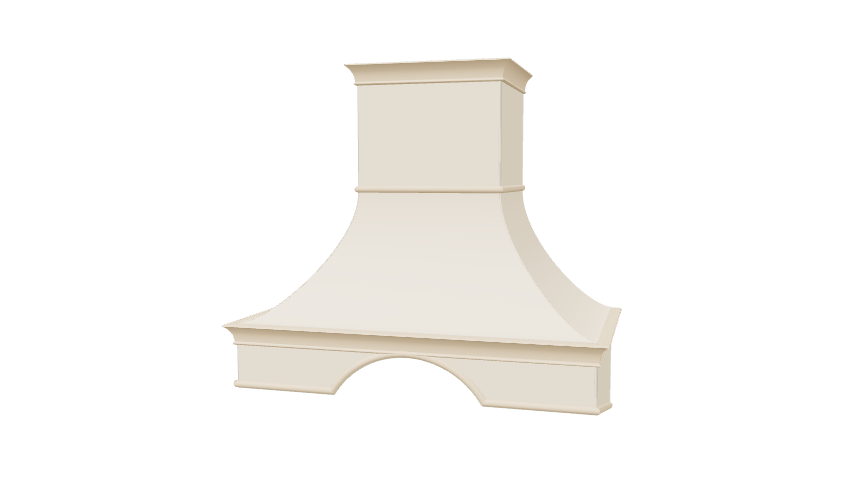
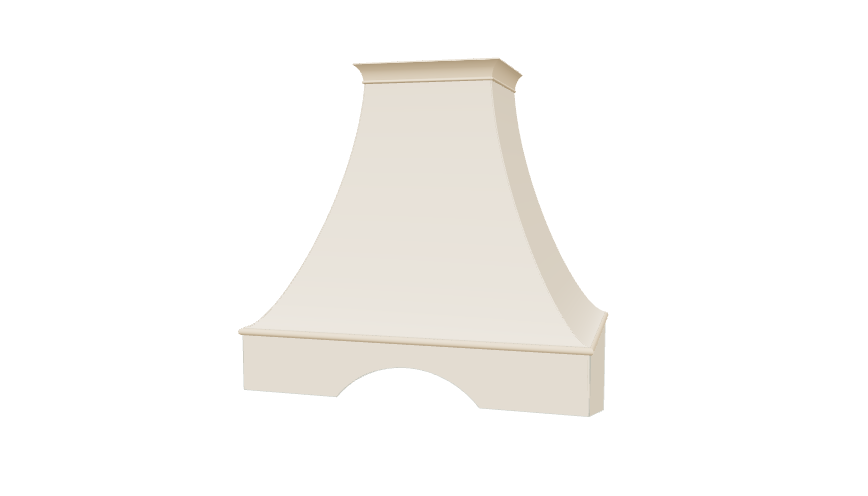
Refine tall 3D thumbnail to match its photo

diff --git a/app.js b/app.js
@@ -1,5 +1,5 @@
 /* © 2026 栗子的家 · 定制装饰罩 | All rights reserved. */
-const w={basePrice:480,trimPrices:{none:0,single:35,corner:45},wechatId:"Jonathan_Ge",qrImage:"assets/pay-qr.jpg",serviceQrImage:"assets/service-qr.jpg",orderEndpoint:location.hostname.endsWith("github.io")?"https://yyj-h5-d5gaovp196680d93f-1258663924.ap-shanghai.app.tcloudbase.com/api/orders":"/api/orders",orderLookupEndpoint:""},re="./preview.js?v=2e9b7c4bbb",N=[{id:"cloud",name:"\u4E91\u6735\u5F27",tone:"\u6696\u7C73",desc:"\u949F\u5F62\u5F27\u7EBF \xB7 \u5BBD\u5E95\u6536\u8FB9",curve:"concave",start:"middle",dims:{hoodWidth:1e3,hoodDepth:500,rearHeight:335,frontHeight:200,chimneyWidth:430,chimneyDepth:330,chimneyHeight:790},trims:{top:"corner",start:"single",hoodTop:"corner",hoodBottom:"single"},notch:{shape:"rounded",width:300,height:60,offset:0}},{id:"tall",name:"\u9AD8\u7A84\u5F27",tone:"\u6696\u7C73",desc:"\u9AD8\u7A84\u957F\u5F27 \xB7 \u62F1\u5F62\u5F00\u53E3",curve:"concave",start:"middle",dims:{hoodWidth:800,hoodDepth:470,rearHeight:264,frontHeight:144,chimneyWidth:325,chimneyDepth:300,chimneyHeight:608},trims:{top:"corner",start:"single",hoodTop:"corner",hoodBottom:"single"},notch:{shape:"arch",width:340,height:95,offset:0}},{id:"line",name:"\u76F4\u8FB9\u5854",tone:"\u6696\u7C73",desc:"\u76F4\u8FB9\u659C\u6536 \xB7 \u65B9\u51A0\u538B\u9876",curve:"flat",start:"middle",dims:{hoodWidth:940,hoodDepth:500,rearHeight:360,frontHeight:250,chimneyWidth:460,chimneyDepth:330,chimneyHeight:634},trims:{top:"corner",start:"single",hoodTop:"corner",hoodBottom:"single"},notch:{shape:"trapezoid",width:420,height:60,offset:0}},{id:"arch",name:"\u5706\u9876\u62F1",tone:"\u6696\u7C73",desc:"\u957F\u5F27\u5916\u6269 \xB7 \u5927\u5706\u62F1\u53E3",curve:"concave",start:"middle",dims:{hoodWidth:840,hoodDepth:480,rearHeight:288,frontHeight:168,chimneyWidth:345,chimneyDepth:310,chimneyHeight:512},trims:{top:"corner",start:"single",hoodTop:"corner",hoodBottom:"single"},notch:{shape:"arch",width:520,height:95,offset:0}},{id:"crown",name:"\u5BBD\u65B9\u51A0",tone:"\u6696\u7C73",desc:"\u5BBD\u80A9\u76F4\u8FB9 \xB7 \u9636\u68AF\u65B9\u51A0",curve:"flat",start:"middle",dims:{hoodWidth:1e3,hoodDepth:510,rearHeight:290,frontHeight:160,chimneyWidth:520,chimneyDepth:330,chimneyHeight:700},trims:{top:"corner",start:"single",hoodTop:"corner",hoodBottom:"single"},notch:{shape:"trapezoid",width:430,height:65,offset:0}},{id:"float",name:"\u6781\u7B80\u65B9\u76D2",tone:"\u6696\u7C73",desc:"\u65B9\u76D2\u76F4\u8FB9 \xB7 \u65E0\u5F27\u4FA7\u9762",curve:"none",start:"middle",dims:{hoodWidth:1e3,hoodDepth:500,rearHeight:280,frontHeight:200,chimneyWidth:780,chimneyDepth:380,chimneyHeight:690},trims:{top:"corner",start:"none",hoodTop:"single",hoodBottom:"single"},notch:{enabled:!1,shape:"rect",width:260,height:50,offset:90}}],$=[{styleId:"cloud",name:"\u4E91\u6735\u5F27",image:"assets/styles/cloud.jpg",model:"assets/models/cloud.png",fit:"cover"},{styleId:"line",name:"\u76F4\u8FB9\u5854",image:"assets/styles/line.jpg",model:"assets/models/line.png",fit:"cover"},{styleId:"tall",name:"\u9AD8\u7A84\u5F27",image:"assets/styles/tall.jpg",model:"assets/models/tall.png",fit:"cover"},{styleId:"arch",name:"\u5706\u9876\u62F1",image:"assets/styles/arch.jpg",model:"assets/models/arch.png",fit:"cover"},{styleId:"crown",name:"\u5BBD\u65B9\u51A0",image:"assets/styles/crown.jpg",model:"assets/models/crown.png",fit:"cover"},{styleId:"float",name:"\u6781\u7B80\u65B9\u76D2",image:"assets/styles/float.jpg",model:"assets/models/float.png",fit:"cover"}];let zt="";async function An(){try{const t=new AbortController,e=window.setTimeout(()=>t.abort(),1500),n=await fetch(`content.json?v=${Date.now()}`,{cache:"no-store",signal:t.signal});if(clearTimeout(e),!n.ok)return;const i=await n.json();if(i&&i.wechatId&&(w.wechatId=String(i.wechatId)),i&&i.qrImage&&(w.qrImage=String(i.qrImage)),i&&i.serviceQrImage&&(w.serviceQrImage=String(i.serviceQrImage)),i&&Number.isFinite(Number(i.basePrice))&&(w.basePrice=Number(i.basePrice)),i&&typeof i.orderLookupEndpoint=="string"&&(w.orderLookupEndpoint=i.orderLookupEndpoint),i&&i.trimPrices&&typeof i.trimPrices=="object"&&Object.keys(w.trimPrices).forEach(r=>{Number.isFinite(Number(i.trimPrices[r]))&&(w.trimPrices[r]=Number(i.trimPrices[r]))}),i&&Array.isArray(i.cases)&&i.cases.length){const r=i.cases.filter(o=>o&&o.styleId&&o.image).map(o=>({styleId:String(o.styleId),name:String(o.name||""),image:String(o.image),model:o.model?String(o.model):"",fit:o.fit==="cover"?"cover":"contain"}));r.length&&($.length=0,$.push(...r))}i&&i.home3dImage&&(zt=String(i.home3dImage))}catch{}}const _=[{id:"none",name:"\u65E0\u88C5\u9970\u6761",desc:"\u5E72\u51C0\u5229\u843D",price:0},{id:"single",name:"\u534A\u5706\u7EBF\u6761",desc:"\u534A\u5706\u7EC6\u8FB9",price:35},{id:"corner",name:"\u9876\u89D2\u6761",desc:"\u76F4\u89D2\u6536\u8FB9",price:45}],ut=[{key:"top",name:"\u70DF\u9053\u9876\u90E8",hint:"\u70DF\u9053\u6700\u4E0A\u65B9\u4E00\u5708"},{key:"start",name:"\u66F2\u9762\u8D77\u70B9",hint:"\u4E0A\u7AD6\u4E0E\u66F2\u9762\u7684\u63A5\u7F1D"},{key:"hoodTop",name:"\u4E0B\u6A2A\u9876\u8FB9",hint:"\u4E0B\u6A2A\u4E0A\u6CBF"},{key:"hoodBottom",name:"\u4E0B\u6A2A\u5E95\u8FB9",hint:"\u4E0B\u6A2A\u4E0B\u6CBF"}],H={chimneyWidth:{label:"\u70DF\u9053\u5BBD",hint:"\u5DE6\u53F3\u5404\u7559 5mm",min:220,max:600,step:10},chimneyDepth:{label:"\u70DF\u9053\u6DF1",hint:"\u4ECE\u5899\u5230\u524D\u5916\u6CBF",min:180,max:500,step:10},chimneyHeight:{label:"\u4E0A\u7AD6\u9AD8",hint:"\u4E0B\u6A2A\u4EE5\u4E0A",min:300,max:1e3,step:10},hoodWidth:{label:"\u70DF\u673A\u5BBD",hint:"\u91CF\u6700\u5916\u6CBF",min:600,max:1100,step:10},hoodDepth:{label:"\u70DF\u673A\u6DF1",hint:"\u4ECE\u5899\u5230\u6700\u5916\u6CBF",min:350,max:650,step:10},rearHeight:{label:"\u9760\u5899\u4FA7\u9AD8",hint:"\u8D34\u5899\u90A3\u4E00\u4FA7",min:220,max:520,step:10},frontHeight:{label:"\u524D\u4FA7\u9AD8",hint:"\u671D\u5916\u8FD9\u4E00\u4FA7",min:120,max:520,step:10},notchWidth:{label:"\u5F00\u53E3\u5BBD",hint:"\u8C41\u53E3\u5DE6\u53F3\u5BBD\u5EA6",min:120,max:620,step:10},notchHeight:{label:"\u5F00\u53E3\u9AD8",hint:"\u4ECE\u5E95\u8FB9\u5F80\u4E0A",min:30,max:220,step:10}},je=[{id:"rect",label:"\u77E9\u5F62"},{id:"rounded",label:"\u5706\u89D2\u77E9\u5F62"},{id:"arch",label:"\u5706\u5F27"},{id:"trapezoid",label:"\u68AF\u5F62"}],ze={chimneyWidth:"front",chimneyDepth:"side",chimneyHeight:"chimneyHeight",hoodWidth:"hoodWidth",hoodDepth:"hoodDepth",rearHeight:"rearHeight",frontHeight:"frontHeight",notchWidth:"notch",notchHeight:"notch"},O={styleId:"cloud",hoodWidth:800,hoodDepth:450,rearHeight:380,frontHeight:240,chimneyWidth:320,chimneyDepth:280,chimneyHeight:500,shimHeight:0,surfaceType:"concave",surfaceStart:"middle",notchEnabled:!0,notchShape:"arch",notchWidth:420,notchHeight:80,notchOffset:0,trimStyles:{top:"corner",start:"single",hoodTop:"single",hoodBottom:"single"}},Re=[{id:"concave",label:"\u5411\u5185\u5F2F\u66F2"},{id:"convex",label:"\u5411\u5916\u5F2F\u66F2"},{id:"flat",label:"\u4E0D\u5F2F\u66F2"},{id:"none",label:"\u65E0\u4FA7\u9762"}];function oe(t){return t==="none"?[{id:"middle",label:"\u4E2D\u95F4"}]:t==="convex"?[{id:"lower",label:"\u4E2D\u95F4\u504F\u4E0B"},{id:"lowest",label:"\u4E2D\u95F4\u66F4\u504F\u4E0B"}]:t==="flat"?[{id:"middle",label:"\u4E2D\u95F4"},{id:"top",label:"\u9876\u90E8"}]:[{id:"middle",label:"\u4E2D\u95F4"},{id:"top",label:"\u4E0A\u9762"}]}function Nn(t=a.surfaceType,e=a.surfaceStart){return e==="lowest"?"\u4E2D\u95F4\u66F4\u504F\u4E0B":e==="lower"?"\u4E2D\u95F4\u504F\u4E0B":e==="top"?t==="flat"?"\u9876\u90E8":"\u4E0A\u9762":"\u4E2D\u95F4"}const F={customer:"yyj_customer",orders:"yyj_orders",pending:"yyj_pending_orders",lastOrder:"yyj_last_order",pendingOrder:"yyj_pending_order"},s=(t,e=document)=>e.querySelector(t),T=(t,e=document)=>Array.from(e.querySelectorAll(t)),S=(t,e,n)=>Math.min(n,Math.max(e,Number(t)||0)),L=t=>`\xA5${Number(t).toLocaleString("zh-CN")}`,x=t=>String(t??"").replace(/[&<>"']/g,e=>({"&":"&amp;","<":"&lt;",">":"&gt;",'"':"&quot;","'":"&#39;"})[e]);function se(t,e){try{const n=localStorage.getItem(t);return n?JSON.parse(n):e}catch{return e}}function mt(t,e){try{localStorage.setItem(t,JSON.stringify(e))}catch{}}function lr(t){try{localStorage.removeItem(t)}catch{}}let Fn=0;function Lt(t,e){const n=parseInt(t.slice(1),16),i=n>>16&255,r=n>>8&255,o=n&255,d=e<0?0:255,c=Math.abs(e)/100,h=m=>Math.round((d-m)*c+m).toString(16).padStart(2,"0");return`#${h(i)}${h(r)}${h(o)}`}const jn={concave:{l1:[132,140],l2:[86,150],r1:[234,150],r2:[188,140]},convex:{l1:[116,124],l2:[52,136],r1:[268,136],r2:[204,124]}};function Be(t,{transparent:e=!1}={}){const n=`hood${++Fn}`,i=t.color,r=t.bg,o=Lt(i,14),d=Lt(i,-10),c=Lt(i,-25),h="#d8be9e",m=jn[t.curve];let u,g;if(t.curve==="flat")u="M132 112 L52 150 H268 L188 112 Z",g="M188 112 L268 150 L288 142 L204 103 Z";else{const{l1:f,l2:b,r1:v,r2:k}=m;u=`M132 112 C${f[0]} ${f[1]} ${b[0]} ${b[1]} 52 150 H268 C${v[0]} ${v[1]} ${k[0]} ${k[1]} 188 112 Z`,g=`M188 112 C${k[0]} ${k[1]} ${v[0]} ${v[1]} 268 150 L288 142 C${v[0]-18} ${v[1]-8} ${k[0]+8} ${k[1]-8} 204 103 Z`}const y=["M132 38 H188 L204 31","M132 112 H188","M52 150 H268 L288 142","M52 196 H268 L288 188"];let p="";if(t.trim==="single"||t.trim==="corner"){const f=t.trim==="corner"?6:4;p=y.map(b=>`<path d="${b}" fill="none" stroke="${h}" stroke-width="${f}" stroke-linecap="round" stroke-linejoin="round"/>`).join(""),t.trim==="corner"&&(p+=y.map(b=>`<path d="${b}" fill="none" stroke="#c9b08d" stroke-width="1.3" opacity=".3"/>`).join(""))}else t.trim==="double"&&(p=y.map(f=>`<path d="${f}" fill="none" stroke="${h}" stroke-width="2.4" stroke-linecap="round" stroke-linejoin="round"/>`).join(""),p+=y.map(f=>`<path d="${f}" transform="translate(0 5)" fill="none" stroke="${h}" stroke-width="2.4" stroke-linecap="round" stroke-linejoin="round"/>`).join(""));return`<svg viewBox="0 0 320 240" role="img" aria-label="${x(t.name)}${x(t.tone)}\u70DF\u673A\u7F69\u793A\u610F">
+const w={basePrice:480,trimPrices:{none:0,single:35,corner:45},wechatId:"Jonathan_Ge",qrImage:"assets/pay-qr.jpg",serviceQrImage:"assets/service-qr.jpg",orderEndpoint:location.hostname.endsWith("github.io")?"https://yyj-h5-d5gaovp196680d93f-1258663924.ap-shanghai.app.tcloudbase.com/api/orders":"/api/orders",orderLookupEndpoint:""},re="./preview.js?v=2e9b7c4bbb",N=[{id:"cloud",name:"\u4E91\u6735\u5F27",tone:"\u6696\u7C73",desc:"\u949F\u5F62\u5F27\u7EBF \xB7 \u5BBD\u5E95\u6536\u8FB9",curve:"concave",start:"middle",dims:{hoodWidth:1e3,hoodDepth:500,rearHeight:335,frontHeight:200,chimneyWidth:430,chimneyDepth:330,chimneyHeight:790},trims:{top:"corner",start:"single",hoodTop:"corner",hoodBottom:"single"},notch:{shape:"rounded",width:300,height:60,offset:0}},{id:"tall",name:"\u9AD8\u7A84\u5F27",tone:"\u6696\u7C73",desc:"\u9AD8\u7A84\u957F\u5F27 \xB7 \u62F1\u5F62\u5F00\u53E3",curve:"concave",start:"top",dims:{hoodWidth:800,hoodDepth:470,rearHeight:264,frontHeight:144,chimneyWidth:290,chimneyDepth:300,chimneyHeight:640},trims:{top:"corner",start:"none",hoodTop:"single",hoodBottom:"none"},notch:{shape:"arch",width:340,height:80,offset:0}},{id:"line",name:"\u76F4\u8FB9\u5854",tone:"\u6696\u7C73",desc:"\u76F4\u8FB9\u659C\u6536 \xB7 \u65B9\u51A0\u538B\u9876",curve:"flat",start:"middle",dims:{hoodWidth:940,hoodDepth:500,rearHeight:360,frontHeight:250,chimneyWidth:460,chimneyDepth:330,chimneyHeight:634},trims:{top:"corner",start:"single",hoodTop:"corner",hoodBottom:"single"},notch:{shape:"trapezoid",width:420,height:60,offset:0}},{id:"arch",name:"\u5706\u9876\u62F1",tone:"\u6696\u7C73",desc:"\u957F\u5F27\u5916\u6269 \xB7 \u5927\u5706\u62F1\u53E3",curve:"concave",start:"middle",dims:{hoodWidth:840,hoodDepth:480,rearHeight:288,frontHeight:168,chimneyWidth:345,chimneyDepth:310,chimneyHeight:512},trims:{top:"corner",start:"single",hoodTop:"corner",hoodBottom:"single"},notch:{shape:"arch",width:520,height:95,offset:0}},{id:"crown",name:"\u5BBD\u65B9\u51A0",tone:"\u6696\u7C73",desc:"\u5BBD\u80A9\u76F4\u8FB9 \xB7 \u9636\u68AF\u65B9\u51A0",curve:"flat",start:"middle",dims:{hoodWidth:1e3,hoodDepth:510,rearHeight:290,frontHeight:160,chimneyWidth:520,chimneyDepth:330,chimneyHeight:700},trims:{top:"corner",start:"single",hoodTop:"corner",hoodBottom:"single"},notch:{shape:"trapezoid",width:430,height:65,offset:0}},{id:"float",name:"\u6781\u7B80\u65B9\u76D2",tone:"\u6696\u7C73",desc:"\u65B9\u76D2\u76F4\u8FB9 \xB7 \u65E0\u5F27\u4FA7\u9762",curve:"none",start:"middle",dims:{hoodWidth:1e3,hoodDepth:500,rearHeight:280,frontHeight:200,chimneyWidth:780,chimneyDepth:380,chimneyHeight:690},trims:{top:"corner",start:"none",hoodTop:"single",hoodBottom:"single"},notch:{enabled:!1,shape:"rect",width:260,height:50,offset:90}}],$=[{styleId:"cloud",name:"\u4E91\u6735\u5F27",image:"assets/styles/cloud.jpg",model:"assets/models/cloud.png",fit:"cover"},{styleId:"line",name:"\u76F4\u8FB9\u5854",image:"assets/styles/line.jpg",model:"assets/models/line.png",fit:"cover"},{styleId:"tall",name:"\u9AD8\u7A84\u5F27",image:"assets/styles/tall.jpg",model:"assets/models/tall.png",fit:"cover"},{styleId:"arch",name:"\u5706\u9876\u62F1",image:"assets/styles/arch.jpg",model:"assets/models/arch.png",fit:"cover"},{styleId:"crown",name:"\u5BBD\u65B9\u51A0",image:"assets/styles/crown.jpg",model:"assets/models/crown.png",fit:"cover"},{styleId:"float",name:"\u6781\u7B80\u65B9\u76D2",image:"assets/styles/float.jpg",model:"assets/models/float.png",fit:"cover"}];let zt="";async function An(){try{const t=new AbortController,e=window.setTimeout(()=>t.abort(),1500),n=await fetch(`content.json?v=${Date.now()}`,{cache:"no-store",signal:t.signal});if(clearTimeout(e),!n.ok)return;const i=await n.json();if(i&&i.wechatId&&(w.wechatId=String(i.wechatId)),i&&i.qrImage&&(w.qrImage=String(i.qrImage)),i&&i.serviceQrImage&&(w.serviceQrImage=String(i.serviceQrImage)),i&&Number.isFinite(Number(i.basePrice))&&(w.basePrice=Number(i.basePrice)),i&&typeof i.orderLookupEndpoint=="string"&&(w.orderLookupEndpoint=i.orderLookupEndpoint),i&&i.trimPrices&&typeof i.trimPrices=="object"&&Object.keys(w.trimPrices).forEach(r=>{Number.isFinite(Number(i.trimPrices[r]))&&(w.trimPrices[r]=Number(i.trimPrices[r]))}),i&&Array.isArray(i.cases)&&i.cases.length){const r=i.cases.filter(o=>o&&o.styleId&&o.image).map(o=>({styleId:String(o.styleId),name:String(o.name||""),image:String(o.image),model:o.model?String(o.model):"",fit:o.fit==="cover"?"cover":"contain"}));r.length&&($.length=0,$.push(...r))}i&&i.home3dImage&&(zt=String(i.home3dImage))}catch{}}const _=[{id:"none",name:"\u65E0\u88C5\u9970\u6761",desc:"\u5E72\u51C0\u5229\u843D",price:0},{id:"single",name:"\u534A\u5706\u7EBF\u6761",desc:"\u534A\u5706\u7EC6\u8FB9",price:35},{id:"corner",name:"\u9876\u89D2\u6761",desc:"\u76F4\u89D2\u6536\u8FB9",price:45}],ut=[{key:"top",name:"\u70DF\u9053\u9876\u90E8",hint:"\u70DF\u9053\u6700\u4E0A\u65B9\u4E00\u5708"},{key:"start",name:"\u66F2\u9762\u8D77\u70B9",hint:"\u4E0A\u7AD6\u4E0E\u66F2\u9762\u7684\u63A5\u7F1D"},{key:"hoodTop",name:"\u4E0B\u6A2A\u9876\u8FB9",hint:"\u4E0B\u6A2A\u4E0A\u6CBF"},{key:"hoodBottom",name:"\u4E0B\u6A2A\u5E95\u8FB9",hint:"\u4E0B\u6A2A\u4E0B\u6CBF"}],H={chimneyWidth:{label:"\u70DF\u9053\u5BBD",hint:"\u5DE6\u53F3\u5404\u7559 5mm",min:220,max:600,step:10},chimneyDepth:{label:"\u70DF\u9053\u6DF1",hint:"\u4ECE\u5899\u5230\u524D\u5916\u6CBF",min:180,max:500,step:10},chimneyHeight:{label:"\u4E0A\u7AD6\u9AD8",hint:"\u4E0B\u6A2A\u4EE5\u4E0A",min:300,max:1e3,step:10},hoodWidth:{label:"\u70DF\u673A\u5BBD",hint:"\u91CF\u6700\u5916\u6CBF",min:600,max:1100,step:10},hoodDepth:{label:"\u70DF\u673A\u6DF1",hint:"\u4ECE\u5899\u5230\u6700\u5916\u6CBF",min:350,max:650,step:10},rearHeight:{label:"\u9760\u5899\u4FA7\u9AD8",hint:"\u8D34\u5899\u90A3\u4E00\u4FA7",min:220,max:520,step:10},frontHeight:{label:"\u524D\u4FA7\u9AD8",hint:"\u671D\u5916\u8FD9\u4E00\u4FA7",min:120,max:520,step:10},notchWidth:{label:"\u5F00\u53E3\u5BBD",hint:"\u8C41\u53E3\u5DE6\u53F3\u5BBD\u5EA6",min:120,max:620,step:10},notchHeight:{label:"\u5F00\u53E3\u9AD8",hint:"\u4ECE\u5E95\u8FB9\u5F80\u4E0A",min:30,max:220,step:10}},je=[{id:"rect",label:"\u77E9\u5F62"},{id:"rounded",label:"\u5706\u89D2\u77E9\u5F62"},{id:"arch",label:"\u5706\u5F27"},{id:"trapezoid",label:"\u68AF\u5F62"}],ze={chimneyWidth:"front",chimneyDepth:"side",chimneyHeight:"chimneyHeight",hoodWidth:"hoodWidth",hoodDepth:"hoodDepth",rearHeight:"rearHeight",frontHeight:"frontHeight",notchWidth:"notch",notchHeight:"notch"},O={styleId:"cloud",hoodWidth:800,hoodDepth:450,rearHeight:380,frontHeight:240,chimneyWidth:320,chimneyDepth:280,chimneyHeight:500,shimHeight:0,surfaceType:"concave",surfaceStart:"middle",notchEnabled:!0,notchShape:"arch",notchWidth:420,notchHeight:80,notchOffset:0,trimStyles:{top:"corner",start:"single",hoodTop:"single",hoodBottom:"single"}},Re=[{id:"concave",label:"\u5411\u5185\u5F2F\u66F2"},{id:"convex",label:"\u5411\u5916\u5F2F\u66F2"},{id:"flat",label:"\u4E0D\u5F2F\u66F2"},{id:"none",label:"\u65E0\u4FA7\u9762"}];function oe(t){return t==="none"?[{id:"middle",label:"\u4E2D\u95F4"}]:t==="convex"?[{id:"lower",label:"\u4E2D\u95F4\u504F\u4E0B"},{id:"lowest",label:"\u4E2D\u95F4\u66F4\u504F\u4E0B"}]:t==="flat"?[{id:"middle",label:"\u4E2D\u95F4"},{id:"top",label:"\u9876\u90E8"}]:[{id:"middle",label:"\u4E2D\u95F4"},{id:"top",label:"\u4E0A\u9762"}]}function Nn(t=a.surfaceType,e=a.surfaceStart){return e==="lowest"?"\u4E2D\u95F4\u66F4\u504F\u4E0B":e==="lower"?"\u4E2D\u95F4\u504F\u4E0B":e==="top"?t==="flat"?"\u9876\u90E8":"\u4E0A\u9762":"\u4E2D\u95F4"}const F={customer:"yyj_customer",orders:"yyj_orders",pending:"yyj_pending_orders",lastOrder:"yyj_last_order",pendingOrder:"yyj_pending_order"},s=(t,e=document)=>e.querySelector(t),T=(t,e=document)=>Array.from(e.querySelectorAll(t)),S=(t,e,n)=>Math.min(n,Math.max(e,Number(t)||0)),L=t=>`\xA5${Number(t).toLocaleString("zh-CN")}`,x=t=>String(t??"").replace(/[&<>"']/g,e=>({"&":"&amp;","<":"&lt;",">":"&gt;",'"':"&quot;","'":"&#39;"})[e]);function se(t,e){try{const n=localStorage.getItem(t);return n?JSON.parse(n):e}catch{return e}}function mt(t,e){try{localStorage.setItem(t,JSON.stringify(e))}catch{}}function lr(t){try{localStorage.removeItem(t)}catch{}}let Fn=0;function Lt(t,e){const n=parseInt(t.slice(1),16),i=n>>16&255,r=n>>8&255,o=n&255,d=e<0?0:255,c=Math.abs(e)/100,h=m=>Math.round((d-m)*c+m).toString(16).padStart(2,"0");return`#${h(i)}${h(r)}${h(o)}`}const jn={concave:{l1:[132,140],l2:[86,150],r1:[234,150],r2:[188,140]},convex:{l1:[116,124],l2:[52,136],r1:[268,136],r2:[204,124]}};function Be(t,{transparent:e=!1}={}){const n=`hood${++Fn}`,i=t.color,r=t.bg,o=Lt(i,14),d=Lt(i,-10),c=Lt(i,-25),h="#d8be9e",m=jn[t.curve];let u,g;if(t.curve==="flat")u="M132 112 L52 150 H268 L188 112 Z",g="M188 112 L268 150 L288 142 L204 103 Z";else{const{l1:f,l2:b,r1:v,r2:k}=m;u=`M132 112 C${f[0]} ${f[1]} ${b[0]} ${b[1]} 52 150 H268 C${v[0]} ${v[1]} ${k[0]} ${k[1]} 188 112 Z`,g=`M188 112 C${k[0]} ${k[1]} ${v[0]} ${v[1]} 268 150 L288 142 C${v[0]-18} ${v[1]-8} ${k[0]+8} ${k[1]-8} 204 103 Z`}const y=["M132 38 H188 L204 31","M132 112 H188","M52 150 H268 L288 142","M52 196 H268 L288 188"];let p="";if(t.trim==="single"||t.trim==="corner"){const f=t.trim==="corner"?6:4;p=y.map(b=>`<path d="${b}" fill="none" stroke="${h}" stroke-width="${f}" stroke-linecap="round" stroke-linejoin="round"/>`).join(""),t.trim==="corner"&&(p+=y.map(b=>`<path d="${b}" fill="none" stroke="#c9b08d" stroke-width="1.3" opacity=".3"/>`).join(""))}else t.trim==="double"&&(p=y.map(f=>`<path d="${f}" fill="none" stroke="${h}" stroke-width="2.4" stroke-linecap="round" stroke-linejoin="round"/>`).join(""),p+=y.map(f=>`<path d="${f}" transform="translate(0 5)" fill="none" stroke="${h}" stroke-width="2.4" stroke-linecap="round" stroke-linejoin="round"/>`).join(""));return`<svg viewBox="0 0 320 240" role="img" aria-label="${x(t.name)}${x(t.tone)}\u70DF\u673A\u7F69\u793A\u610F">
     <defs>
       <linearGradient id="${n}bg" x1="0" y1="0" x2="0" y2="1">
         <stop offset="0" stop-color="${Lt(r,10)}"/><stop offset="1" stop-color="${r}"/>

diff --git a/index.html b/index.html
@@ -207,6 +207,6 @@
           <div id="sheetActions" class="sheet-actions"></div>
         </div>
       </div>
-    <script type="module" src="app.js?v=b686380de8"></script>
+    <script type="module" src="app.js?v=bc19c05e19"></script>
   </body>
 </html>
